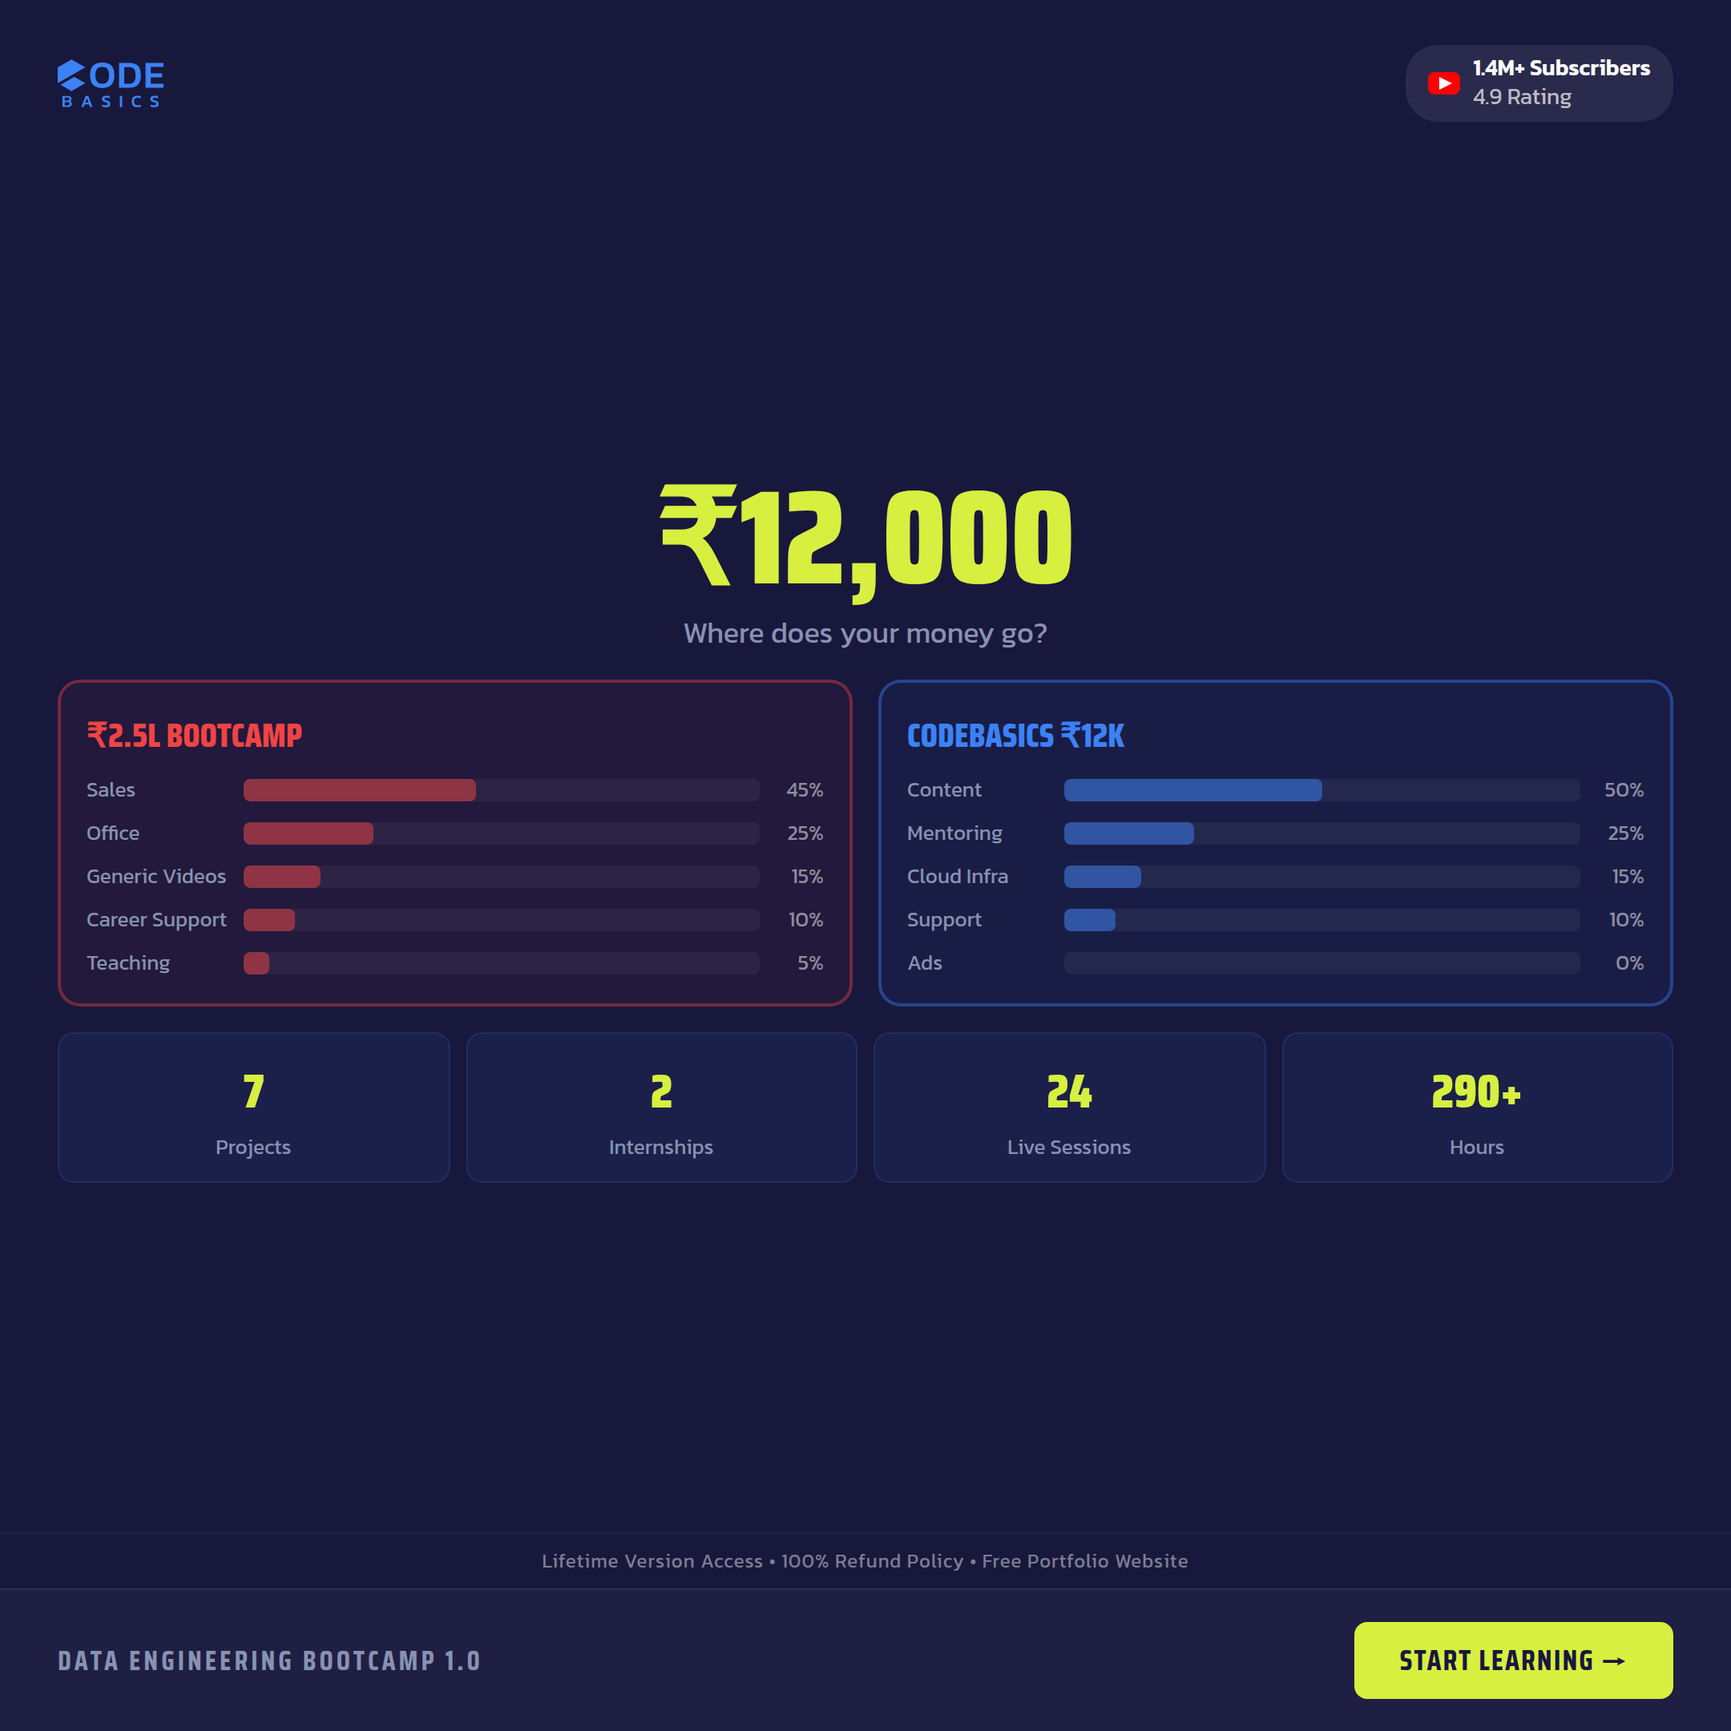
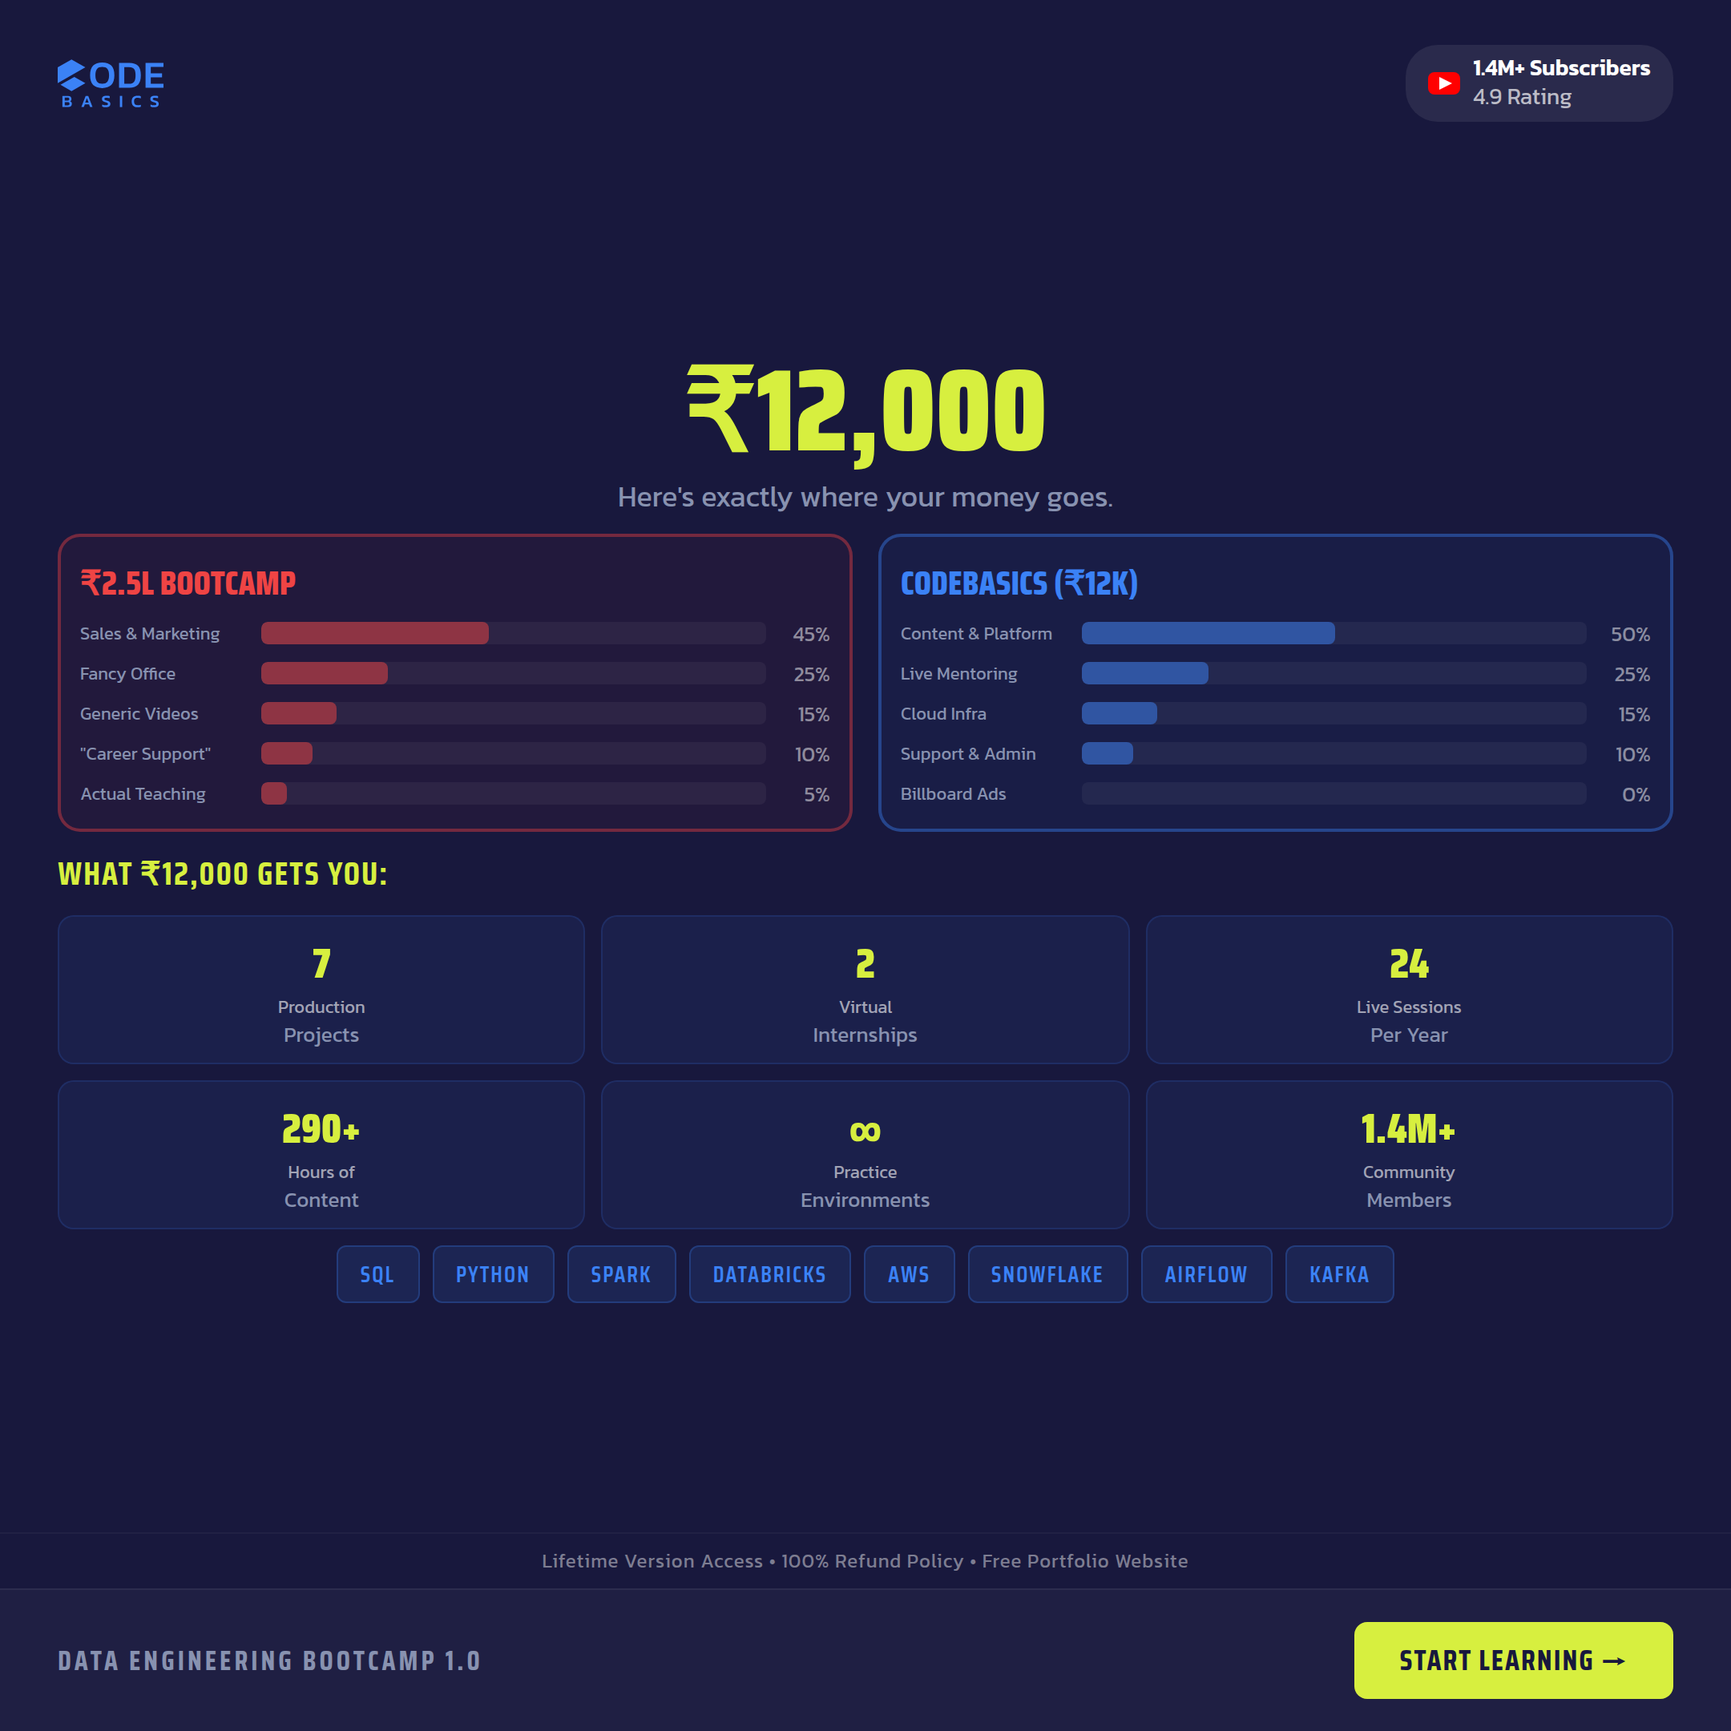
Update CONCEPT2_SQUARE with exact content: full labels, 6 value cards, tech pills
- Subtitle: "Here's exactly where your money goes."
- Full comparison labels: Sales & Marketing, Fancy Office, "Career Support", etc.
- Right box: Codebasics (₹12K) with Content & Platform, Live Mentoring, etc.
- Added "What ₹12,000 Gets You:" heading with 6-card grid (3x2)
- Added 8 tech pills: SQL, Python, Spark, Databricks, AWS, Snowflake, Airflow, Kafka
- Regenerated PNG at 2x resolution

https://claude.ai/code/session_01TbjDQjG9557EXEwBaycqRj

diff --git a/ads/square/CONCEPT2_SQUARE_1080x1080.html b/ads/square/CONCEPT2_SQUARE_1080x1080.html
@@ -28,32 +28,36 @@ body{width:1080px;height:1080px;overflow:hidden;font-family:'Kanit',sans-serif}
 .yt-text{font-size:14px;color:rgba(255,255,255,.7);line-height:1.3}
 .yt-text strong{color:#fff;font-weight:600}
 
-.main{flex:1;display:flex;flex-direction:column;justify-content:center;padding:20px 36px;gap:16px;min-height:0}
+.main{flex:1;display:flex;flex-direction:column;justify-content:center;padding:16px 36px;gap:10px;min-height:0}
 
 .price-hero{text-align:center}
-.price-hero .big{font-family:'Saira Condensed',sans-serif;font-weight:900;font-size:83px;color:#D7EF3F;line-height:1}
+.price-hero .big{font-family:'Saira Condensed',sans-serif;font-weight:900;font-size:72px;color:#D7EF3F;line-height:1}
 .price-hero .sub{font-size:18px;color:#8892b0;margin-top:4px}
 
 .comparison{display:flex;gap:16px;flex:none;min-height:0}
-.comp-box{flex:1;border-radius:14px;padding:16px;display:flex;flex-direction:column;gap:8px}
+.comp-box{flex:1;border-radius:14px;padding:12px;display:flex;flex-direction:column;gap:6px}
 .comp-box.red{border:2px solid rgba(239,68,68,.4);background:rgba(239,68,68,.05)}
 .comp-box.blue{border:2px solid rgba(59,130,246,.4);background:rgba(59,130,246,.05)}
 .comp-title{font-family:'Saira Condensed',sans-serif;font-weight:800;font-size:21px;text-transform:uppercase}
 .comp-box.red .comp-title{color:#ef4444}
 .comp-box.blue .comp-title{color:#3B82F6}
 .bar-row{display:flex;align-items:center;gap:8px}
-.bar-label{font-size:13px;color:#8892b0;width:90px;flex-shrink:0}
+.bar-label{font-size:11px;color:#8892b0;width:105px;flex-shrink:0}
 .bar-track{flex:1;height:14px;background:rgba(255,255,255,.05);border-radius:4px;overflow:hidden}
 .bar-fill{height:100%;border-radius:4px}
 .comp-box.red .bar-fill{background:rgba(239,68,68,.5)}
 .comp-box.blue .bar-fill{background:rgba(59,130,246,.5)}
 .bar-pct{font-size:13px;color:rgba(255,255,255,.5);width:32px;text-align:right;flex-shrink:0}
 
-.value-grid{display:grid;grid-template-columns:repeat(4,1fr);gap:10px}
-.value-card{background:rgba(59,130,246,.08);border:1px solid rgba(59,130,246,.15);border-radius:10px;padding:12px 8px;text-align:center}
-.value-num{font-family:'Saira Condensed',sans-serif;font-weight:900;font-size:30px;color:#D7EF3F}
+.value-grid{display:grid;grid-template-columns:repeat(3,1fr);gap:10px}
+.value-card{background:rgba(59,130,246,.08);border:1px solid rgba(59,130,246,.15);border-radius:10px;padding:8px 6px;text-align:center}
+.value-num{font-family:'Saira Condensed',sans-serif;font-weight:900;font-size:26px;color:#D7EF3F}
 .value-label{font-size:13px;color:#8892b0;margin-top:2px}
 
+.value-heading{font-family:'Saira Condensed',sans-serif;font-weight:700;font-size:20px;color:#D7EF3F;text-transform:uppercase;letter-spacing:1px}
+.value-sub{font-size:11px;color:rgba(255,255,255,.6);margin-top:1px;line-height:1.1}
+.tech-pills{display:flex;flex-wrap:wrap;gap:8px;justify-content:center}
+.pill{background:rgba(59,130,246,.12);border:1px solid rgba(59,130,246,.25);border-radius:6px;padding:6px 14px;font-family:'Saira Condensed',sans-serif;font-weight:600;font-size:14px;color:#3B82F6;text-transform:uppercase;letter-spacing:1px}
 .cta-bar{display:flex;justify-content:space-between;align-items:center;padding:20px 36px;background:rgba(255,255,255,.03);border-top:1px solid rgba(255,255,255,.06);flex-shrink:0}
 .cta-label{font-family:'Saira Condensed',sans-serif;font-weight:700;font-size:17px;text-transform:uppercase;letter-spacing:2px;color:#8892b0}
 .cta-btn{background:#D7EF3F;color:#18183D;font-family:'Saira Condensed',sans-serif;font-weight:700;font-size:18px;padding:10px 28px;border-radius:8px;border:none;text-transform:uppercase;letter-spacing:1px;cursor:pointer;white-space:nowrap}
@@ -73,33 +77,46 @@ body{width:1080px;height:1080px;overflow:hidden;font-family:'Kanit',sans-serif}
   <div class="main">
     <div class="price-hero">
       <div class="big">₹12,000</div>
-      <div class="sub">Where does your money go?</div>
+      <div class="sub">Here's exactly where your money goes.</div>
     </div>
 
     <div class="comparison">
       <div class="comp-box red">
         <div class="comp-title">₹2.5L Bootcamp</div>
-        <div class="bar-row"><span class="bar-label">Sales</span><div class="bar-track"><div class="bar-fill" style="width:45%"></div></div><span class="bar-pct">45%</span></div>
-        <div class="bar-row"><span class="bar-label">Office</span><div class="bar-track"><div class="bar-fill" style="width:25%"></div></div><span class="bar-pct">25%</span></div>
+        <div class="bar-row"><span class="bar-label">Sales & Marketing</span><div class="bar-track"><div class="bar-fill" style="width:45%"></div></div><span class="bar-pct">45%</span></div>
+        <div class="bar-row"><span class="bar-label">Fancy Office</span><div class="bar-track"><div class="bar-fill" style="width:25%"></div></div><span class="bar-pct">25%</span></div>
         <div class="bar-row"><span class="bar-label">Generic Videos</span><div class="bar-track"><div class="bar-fill" style="width:15%"></div></div><span class="bar-pct">15%</span></div>
-        <div class="bar-row"><span class="bar-label">Career Support</span><div class="bar-track"><div class="bar-fill" style="width:10%"></div></div><span class="bar-pct">10%</span></div>
-        <div class="bar-row"><span class="bar-label">Teaching</span><div class="bar-track"><div class="bar-fill" style="width:5%"></div></div><span class="bar-pct">5%</span></div>
+        <div class="bar-row"><span class="bar-label">"Career Support"</span><div class="bar-track"><div class="bar-fill" style="width:10%"></div></div><span class="bar-pct">10%</span></div>
+        <div class="bar-row"><span class="bar-label">Actual Teaching</span><div class="bar-track"><div class="bar-fill" style="width:5%"></div></div><span class="bar-pct">5%</span></div>
       </div>
       <div class="comp-box blue">
-        <div class="comp-title">Codebasics ₹12K</div>
-        <div class="bar-row"><span class="bar-label">Content</span><div class="bar-track"><div class="bar-fill" style="width:50%"></div></div><span class="bar-pct">50%</span></div>
-        <div class="bar-row"><span class="bar-label">Mentoring</span><div class="bar-track"><div class="bar-fill" style="width:25%"></div></div><span class="bar-pct">25%</span></div>
+        <div class="comp-title">Codebasics (₹12K)</div>
+        <div class="bar-row"><span class="bar-label">Content & Platform</span><div class="bar-track"><div class="bar-fill" style="width:50%"></div></div><span class="bar-pct">50%</span></div>
+        <div class="bar-row"><span class="bar-label">Live Mentoring</span><div class="bar-track"><div class="bar-fill" style="width:25%"></div></div><span class="bar-pct">25%</span></div>
         <div class="bar-row"><span class="bar-label">Cloud Infra</span><div class="bar-track"><div class="bar-fill" style="width:15%"></div></div><span class="bar-pct">15%</span></div>
-        <div class="bar-row"><span class="bar-label">Support</span><div class="bar-track"><div class="bar-fill" style="width:10%"></div></div><span class="bar-pct">10%</span></div>
-        <div class="bar-row"><span class="bar-label">Ads</span><div class="bar-track"><div class="bar-fill" style="width:0%"></div></div><span class="bar-pct">0%</span></div>
+        <div class="bar-row"><span class="bar-label">Support & Admin</span><div class="bar-track"><div class="bar-fill" style="width:10%"></div></div><span class="bar-pct">10%</span></div>
+        <div class="bar-row"><span class="bar-label">Billboard Ads</span><div class="bar-track"><div class="bar-fill" style="width:0%"></div></div><span class="bar-pct">0%</span></div>
       </div>
     </div>
 
+    <div class="value-heading">What ₹12,000 Gets You:</div>
     <div class="value-grid">
-      <div class="value-card"><div class="value-num">7</div><div class="value-label">Projects</div></div>
-      <div class="value-card"><div class="value-num">2</div><div class="value-label">Internships</div></div>
-      <div class="value-card"><div class="value-num">24</div><div class="value-label">Live Sessions</div></div>
-      <div class="value-card"><div class="value-num">290+</div><div class="value-label">Hours</div></div>
+      <div class="value-card"><div class="value-num">7</div><div class="value-sub">Production</div><div class="value-label">Projects</div></div>
+      <div class="value-card"><div class="value-num">2</div><div class="value-sub">Virtual</div><div class="value-label">Internships</div></div>
+      <div class="value-card"><div class="value-num">24</div><div class="value-sub">Live Sessions</div><div class="value-label">Per Year</div></div>
+      <div class="value-card"><div class="value-num">290+</div><div class="value-sub">Hours of</div><div class="value-label">Content</div></div>
+      <div class="value-card"><div class="value-num">∞</div><div class="value-sub">Practice</div><div class="value-label">Environments</div></div>
+      <div class="value-card"><div class="value-num">1.4M+</div><div class="value-sub">Community</div><div class="value-label">Members</div></div>
+    </div>
+    <div class="tech-pills">
+      <span class="pill">SQL</span>
+      <span class="pill">PYTHON</span>
+      <span class="pill">SPARK</span>
+      <span class="pill">DATABRICKS</span>
+      <span class="pill">AWS</span>
+      <span class="pill">SNOWFLAKE</span>
+      <span class="pill">AIRFLOW</span>
+      <span class="pill">KAFKA</span>
     </div>
   </div>
   <div class="trust-strip">Lifetime Version Access • 100% Refund Policy • Free Portfolio Website</div>

diff --git a/fix-concept2-square.js b/fix-concept2-square.js
@@ -1,0 +1,141 @@
+const fs = require('fs');
+const path = require('path');
+
+const file = path.resolve(__dirname, 'ads/square/CONCEPT2_SQUARE_1080x1080.html');
+let html = fs.readFileSync(file, 'utf8');
+
+// 1. Update subtitle text
+html = html.replace(
+  '<div class="sub">Where does your money go?</div>',
+  '<div class="sub">Here\'s exactly where your money goes.</div>'
+);
+
+// 2. Update left comparison box labels
+html = html.replace(
+  '<span class="bar-label">Sales</span>',
+  '<span class="bar-label">Sales & Marketing</span>'
+);
+html = html.replace(
+  '<span class="bar-label">Office</span>',
+  '<span class="bar-label">Fancy Office</span>'
+);
+// Generic Videos stays the same
+html = html.replace(
+  '<span class="bar-label">Career Support</span>',
+  '<span class="bar-label">"Career Support"</span>'
+);
+html = html.replace(
+  '<span class="bar-label">Teaching</span>',
+  '<span class="bar-label">Actual Teaching</span>'
+);
+
+// 3. Update right comparison box title and labels
+html = html.replace(
+  '<div class="comp-title">Codebasics ₹12K</div>',
+  '<div class="comp-title">Codebasics (₹12K)</div>'
+);
+html = html.replace(
+  '<span class="bar-label">Content</span>',
+  '<span class="bar-label">Content & Platform</span>'
+);
+html = html.replace(
+  '<span class="bar-label">Mentoring</span>',
+  '<span class="bar-label">Live Mentoring</span>'
+);
+// Cloud Infra stays the same
+html = html.replace(
+  '<span class="bar-label">Support</span>',
+  '<span class="bar-label">Support & Admin</span>'
+);
+html = html.replace(
+  '<span class="bar-label">Ads</span>',
+  '<span class="bar-label">Billboard Ads</span>'
+);
+
+// 4. Replace value grid section with expanded 6-item grid + heading + tech pills
+const oldValueGrid = `<div class="value-grid">
+      <div class="value-card"><div class="value-num">7</div><div class="value-label">Projects</div></div>
+      <div class="value-card"><div class="value-num">2</div><div class="value-label">Internships</div></div>
+      <div class="value-card"><div class="value-num">24</div><div class="value-label">Live Sessions</div></div>
+      <div class="value-card"><div class="value-num">290+</div><div class="value-label">Hours</div></div>
+    </div>`;
+
+const newValueGrid = `<div class="value-heading">What ₹12,000 Gets You:</div>
+    <div class="value-grid">
+      <div class="value-card"><div class="value-num">7</div><div class="value-sub">Production</div><div class="value-label">Projects</div></div>
+      <div class="value-card"><div class="value-num">2</div><div class="value-sub">Virtual</div><div class="value-label">Internships</div></div>
+      <div class="value-card"><div class="value-num">24</div><div class="value-sub">Live Sessions</div><div class="value-label">Per Year</div></div>
+      <div class="value-card"><div class="value-num">290+</div><div class="value-sub">Hours of</div><div class="value-label">Content</div></div>
+      <div class="value-card"><div class="value-num">∞</div><div class="value-sub">Practice</div><div class="value-label">Environments</div></div>
+      <div class="value-card"><div class="value-num">1.4M+</div><div class="value-sub">Community</div><div class="value-label">Members</div></div>
+    </div>
+    <div class="tech-pills">
+      <span class="pill">SQL</span>
+      <span class="pill">PYTHON</span>
+      <span class="pill">SPARK</span>
+      <span class="pill">DATABRICKS</span>
+      <span class="pill">AWS</span>
+      <span class="pill">SNOWFLAKE</span>
+      <span class="pill">AIRFLOW</span>
+      <span class="pill">KAFKA</span>
+    </div>`;
+
+html = html.replace(oldValueGrid, newValueGrid);
+
+// 5. Update CSS: change value-grid to 3 columns for 6 items, add heading + pills styles
+// Update grid to 3 columns
+html = html.replace(
+  '.value-grid{display:grid;grid-template-columns:repeat(4,1fr);gap:10px}',
+  '.value-grid{display:grid;grid-template-columns:repeat(3,1fr);gap:10px}'
+);
+
+// Add new CSS rules before .cta-bar
+const newCss = `.value-heading{font-family:'Saira Condensed',sans-serif;font-weight:700;font-size:20px;color:#D7EF3F;text-transform:uppercase;letter-spacing:1px}
+.value-sub{font-size:11px;color:rgba(255,255,255,.6);margin-top:1px;line-height:1.1}
+.tech-pills{display:flex;flex-wrap:wrap;gap:8px;justify-content:center}
+.pill{background:rgba(59,130,246,.12);border:1px solid rgba(59,130,246,.25);border-radius:6px;padding:6px 14px;font-family:'Saira Condensed',sans-serif;font-weight:600;font-size:14px;color:#3B82F6;text-transform:uppercase;letter-spacing:1px}
+`;
+
+html = html.replace(
+  '.cta-bar{',
+  newCss + '.cta-bar{'
+);
+
+// 6. Reduce price-hero font slightly and tighten gaps to fit more content
+html = html.replace(
+  ".price-hero .big{font-family:'Saira Condensed',sans-serif;font-weight:900;font-size:83px",
+  ".price-hero .big{font-family:'Saira Condensed',sans-serif;font-weight:900;font-size:72px"
+);
+
+// Reduce main gap from 16px to 12px to fit more content
+html = html.replace(
+  '.main{flex:1;display:flex;flex-direction:column;justify-content:center;padding:20px 36px;gap:16px;',
+  '.main{flex:1;display:flex;flex-direction:column;justify-content:center;padding:16px 36px;gap:10px;'
+);
+
+// Make bar-label wider to accommodate longer text
+html = html.replace(
+  '.bar-label{font-size:13px;color:#8892b0;width:90px;',
+  '.bar-label{font-size:11px;color:#8892b0;width:105px;'
+);
+
+// Reduce comp-box padding to fit
+html = html.replace(
+  '.comp-box{flex:1;border-radius:14px;padding:16px;display:flex;flex-direction:column;gap:8px}',
+  '.comp-box{flex:1;border-radius:14px;padding:12px;display:flex;flex-direction:column;gap:6px}'
+);
+
+// Reduce value-card padding
+html = html.replace(
+  '.value-card{background:rgba(59,130,246,.08);border:1px solid rgba(59,130,246,.15);border-radius:10px;padding:12px 8px;text-align:center}',
+  '.value-card{background:rgba(59,130,246,.08);border:1px solid rgba(59,130,246,.15);border-radius:10px;padding:8px 6px;text-align:center}'
+);
+
+// Reduce value-num size
+html = html.replace(
+  ".value-num{font-family:'Saira Condensed',sans-serif;font-weight:900;font-size:30px;",
+  ".value-num{font-family:'Saira Condensed',sans-serif;font-weight:900;font-size:26px;"
+);
+
+fs.writeFileSync(file, html, 'utf8');
+console.log('Updated CONCEPT2_SQUARE_1080x1080.html with exact user content');
